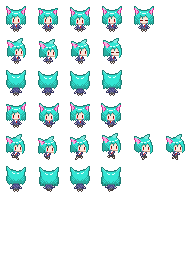
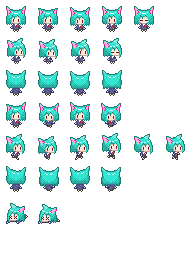
地雷を踏んだ時のイベント処理 (boost::coroutineとLuaを共存できなかったのでLuaのcoroutineを分けた)

Changed region(s): [[0.0312, 0.7812, 0.1562, 0.875], [0.1875, 0.7812, 0.3125, 0.875]]

diff --git a/src/inGame/SteppedOnMineEvent.cpp b/src/inGame/SteppedOnMineEvent.cpp
@@ -1,0 +1,56 @@
+//
+// Created by sashi0034 on 2022/08/10.
+//
+
+#include "SteppedOnMineEvent.h"
+#include "MainScene.h"
+#include "character/MineFlower.h"
+#include "effect/GeoExplosion.h"
+
+namespace inGame
+{
+
+    IFieldManager *SteppedOnMineEventArgs::GetFieldManager() const
+    {
+        return MainScene->GetFieldManager();
+    }
+
+    void SteppedOnMineEvent::StartEvent(const SteppedOnMineEventArgs &args)
+    {
+        args.GetFieldManager()->GetCoroutine()->Start([args, this](auto&& yield){ performExplosionAsync(yield, args); });
+    }
+
+    void SteppedOnMineEvent::performExplosionAsync(CoroTaskYield &yield, SteppedOnMineEventArgs args)
+    {
+        auto eventInScope = args.MainScene->GetFieldEventManager()->UseEvent();
+        eventInScope.StartFromHere();
+
+        LOG_INFO << "stepped on mine." << std::endl;
+
+        args.GetFieldManager()->GetCoroutine()->Start([this, &args](auto&& yield){explodeFlowersAsync(yield, args); });
+
+        coroUtil::WaitForTime(yield, 3.0);
+
+        args.MainScene->ToSuper()->RequestResetScene(args.ClassAtFailed->GetClassLevel());
+    }
+
+    // 順番に爆発していく演出
+    void SteppedOnMineEvent::explodeFlowersAsync(CoroTaskYield &yield, SteppedOnMineEventArgs args)
+    {
+        auto const bloomedList = args.ClassAtFailed->SortBloomedListByPos(args.SteppedPos)->GetBloomedList();
+
+        for (int i=0; i<int(bloomedList.size()); ++i)
+        {
+            auto targetFlower = bloomedList[i];
+
+            effect::GeoExplosion::Produce(
+                    args.MainScene->GetEffectManager(),
+                    targetFlower->Position.GetVecByFiledPixel() + FieldManager::MatPixelSize.CastTo<double>() / 2.0);
+
+            targetFlower->Destroy();
+
+            coroUtil::WaitForTime(yield, 0.1);
+        }
+    }
+
+} // inGame

diff --git a/src/inGame/LuaEngine.h b/src/inGame/LuaEngine.h
@@ -6,20 +6,48 @@
 #define FILL_TILES_LUAENGINE_H
 
 #include "sol.hpp"
+#include "../gameEngine/gameEngine.h"
 
 namespace inGame
 {
+    class GameRoot;
 
     class LuaEngine
     {
     public:
-        LuaEngine();
+        explicit LuaEngine(GameRoot* gameRoot);
         sol::state& GetState();
         void ReloadAllFiles();
+
     private:
+        GameRoot* m_GameRoot;
         const std::string  directoryPath = "assets/lua";
+        static const inline std::string yieldGetterPath = "assets/lua/getYield.lua";
         sol::state m_Lua{};
         bool tryInit();
+        double getDeltaTime();
+
+    public:
+        template <class... Args> void RunCoroutine(CoroTaskYield& yield, sol::function function, Args... args)
+        {
+            sol::coroutine task = m_Lua["coroutine"]["create"](function);
+            sol::function yieldGetter = m_Lua.script_file(yieldGetterPath);
+            sol::function yieldFunc = yieldGetter([&](){return getDeltaTime(); });
+
+            while (true)
+            {
+                m_Lua["coroutine"]["resume"](
+                        task,
+                        yieldFunc,
+                        args...
+                );
+
+                std::string status = m_Lua["coroutine"]["status"](task);
+                if (status == "dead") break;
+
+                yield();
+            }
+        }
     };
 
 } // gameEngine

diff --git a/src/inGame/MineFlowerManager.cpp b/src/inGame/MineFlowerManager.cpp
@@ -8,6 +8,7 @@
 #include "character/MineFlower.h"
 #include "character/CheckpointBlock.h"
 #include "PlayerMoveData.h"
+#include "SteppedOnMineEvent.h"
 
 namespace inGame{
 
@@ -84,8 +85,8 @@ namespace inGame{
 
         if (field->GetTileMap()->GetElementAt(matPos.GetVec())->IsBloomedMineFlower())
         {
-            LOG_INFO << "stepped on mine." << std::endl;
-            m_MainScene->ToSuper()->RequestResetScene(mineClass.GetClassLevel());
+            // 地雷を踏んでしまった
+            SteppedOnMineEvent().StartEvent(SteppedOnMineEventArgs{m_MainScene, GetCurrMineFlowerClass(), matPos});
             return false;
         }
 
@@ -213,11 +214,7 @@ namespace inGame{
     {
         auto const player = m_MainScene->GetPlayer();
         auto const playerMatPos = player->GetMatPos();
-        auto&& flowerList = mineClass.GetBloomedMineFlowerList();
-
-        std::stable_sort(flowerList.begin(), flowerList.end(), [&](character::MineFlower* left, character::MineFlower* right)->bool{
-            return playerMatPos.CalcManhattan(left->Position) < playerMatPos.CalcManhattan(right->Position);
-        });
+        auto&& flowerList = mineClass.SortBloomedListByPos(playerMatPos)->GetBloomedList();
 
         int listSize = int(flowerList.size());
         for (int i=0; i<listSize; ++i)

diff --git a/src/inGame/LuaEngine.cpp b/src/inGame/LuaEngine.cpp
@@ -5,12 +5,13 @@
 #include "string"
 #include "../gameEngine/gameEngine.h"
 #include "LuaEngine.h"
+#include "GameRoot.h"
 
 
 namespace inGame
 {
 
-    LuaEngine::LuaEngine()
+    LuaEngine::LuaEngine(GameRoot* gameRoot) : m_GameRoot(gameRoot)
     {
         m_Lua.open_libraries(sol::lib::base, sol::lib::package, sol::lib::coroutine, sol::lib::string, sol::lib::os, sol::lib::math,
                              sol::lib::table, sol::lib::debug, sol::lib::bit32, sol::lib::io, sol::lib::ffi, sol::lib::utf8);
@@ -24,7 +25,7 @@ namespace inGame
         bool isSuccess = true;
         namespace  fs = std::filesystem;
 
-        for (const auto& file : fs::directory_iterator(directoryPath))
+        for (const auto& file : fs::recursive_directory_iterator(directoryPath))
         {
             if (!file.is_regular_file()) continue;
 
@@ -53,6 +54,11 @@ namespace inGame
     void LuaEngine::ReloadAllFiles()
     {
         tryInit();
+    }
+
+    double LuaEngine::getDeltaTime()
+    {
+        return m_GameRoot->GetAppState()->GetTime().GetDeltaSec();
     }
 
 } // inGame

diff --git a/src/gameEngine/CoroutineManager.h b/src/gameEngine/CoroutineManager.h
@@ -9,6 +9,7 @@
 #include "ChildrenPool.h"
 #include "CoroTask.h"
 #include "boost/coroutine2/coroutine.hpp"
+#include <functional>
 
 namespace gameEngine
 {
@@ -25,6 +26,7 @@ namespace gameEngine
     class ICoroutineManager
     {
     public:
+        virtual WeakPtr<CoroutineElement> Start(std::function<void(CoroTaskYield&)> Task) = 0;
         virtual WeakPtr<CoroutineElement> Start(boost::coroutines2::coroutine<CoroTask>::pull_type *Task) = 0;
         virtual WeakPtr<CoroutineElement> Start(CoroutineElement *task) = 0;
         virtual bool Destroy(CoroutineElement *task) = 0;
@@ -33,6 +35,7 @@ namespace gameEngine
     class CoroutineManager : public ICoroutineManager
     {
     public:
+        WeakPtr<CoroutineElement> Start(std::function<void(CoroTaskYield&)> task) override;
         WeakPtr<CoroutineElement> Start(boost::coroutines2::coroutine<CoroTask>::pull_type *task) override;
         WeakPtr<CoroutineElement> Start(CoroutineElement *task) override;
         bool Destroy(CoroutineElement *task) override;

diff --git a/src/inGame/MineFlowerClass.cpp b/src/inGame/MineFlowerClass.cpp
@@ -3,6 +3,7 @@
 //
 
 #include "MineFlowerClass.h"
+#include "character/MineFlower.h"
 
 namespace inGame
 {
@@ -63,9 +64,17 @@ namespace inGame
         m_BloomedMineFlowerList.push_back(element);
     }
 
-    std::vector<character::MineFlower*> &MineFlowerClass::GetBloomedMineFlowerList()
+    std::vector<character::MineFlower*> &MineFlowerClass::GetBloomedList()
     {
         return m_BloomedMineFlowerList;
+    }
+
+    MineFlowerClass *MineFlowerClass::SortBloomedListByPos(const MatPos &centerPos)
+    {
+        std::stable_sort(m_BloomedMineFlowerList.begin(), m_BloomedMineFlowerList.end(), [&](character::MineFlower* left, character::MineFlower* right)->bool{
+            return centerPos.CalcManhattan(left->Position) < centerPos.CalcManhattan(right->Position);
+        });
+        return this;
     }
 
 } // inGame

diff --git a/src/inGame/SteppedOnMineEvent.h b/src/inGame/SteppedOnMineEvent.h
@@ -1,0 +1,32 @@
+//
+// Created by sashi0034 on 2022/08/10.
+//
+
+#ifndef FILL_TILES_STEPPEDONMINEEVENT_H
+#define FILL_TILES_STEPPEDONMINEEVENT_H
+
+#include "MineFlowerClass.h"
+
+namespace inGame
+{
+    struct SteppedOnMineEventArgs
+    {
+        IMainScene* const MainScene;
+        MineFlowerClass* const ClassAtFailed;
+        MatPos const SteppedPos;
+
+        IFieldManager* GetFieldManager() const;
+    };
+
+    class SteppedOnMineEvent
+    {
+    public:
+        void StartEvent(const SteppedOnMineEventArgs& args);
+    private:
+        void performExplosionAsync(CoroTaskYield& yield, SteppedOnMineEventArgs args);
+        void explodeFlowersAsync(CoroTaskYield &yield, SteppedOnMineEventArgs args);
+    };
+
+} // inGame
+
+#endif //FILL_TILES_STEPPEDONMINEEVENT_H

diff --git a/src/inGame/effect/GeoExplosion.cpp b/src/inGame/effect/GeoExplosion.cpp
@@ -40,10 +40,14 @@ namespace inGame::effect
 
     CoroTask GeoExplosion::produceEffectAsync(CoroTaskYield &yield, EffectManager *manager, const Vec2<double> pos)
     {
+        yield();
+
         auto const lua = manager->GetRoot()->GetLua();
-        lua->GetState()["GeoExplosion"]["ProduceEffects"](
-                [&](double time){coroUtil::WaitForTime(yield, time); },
-                [&](double x, double y){manager->GetChildren()->Birth(new GeoExplosion(manager, pos + Vec2{x, y}));}
+
+        lua->RunCoroutine(
+                yield,
+                (sol::function)lua->GetState()["GeoExplosion"]["ProduceEffects"],
+                [&](double x, double y)->void {manager->GetChildren()->Birth(new GeoExplosion(manager, pos + Vec2{x, y}));}
         );
 
     }

diff --git a/src/inGame/MineFlowerClass.h b/src/inGame/MineFlowerClass.h
@@ -37,7 +37,9 @@ namespace inGame
         [[nodiscard]] MatPos GetRespawnMatPos() const;
 
         void PushBloomedMineFlower(character::MineFlower* element);
-        std::vector<character::MineFlower*>& GetBloomedMineFlowerList();
+        std::vector<character::MineFlower*>& GetBloomedList();
+
+        MineFlowerClass* SortBloomedListByPos(const MatPos& centerPos);
     private:
         int m_MaxMineFlowerCount = 0;
         int m_MineFlowerCount = 0;

diff --git a/src/gameEngine/CoroutineManager.cpp b/src/gameEngine/CoroutineManager.cpp
@@ -16,6 +16,11 @@ namespace gameEngine{
     }
 
 
+    WeakPtr<CoroutineElement> CoroutineManager::Start(std::function<void(CoroTaskYield&)> task)
+    {
+        return Start(new CoroTaskCall(task));
+    }
+
     WeakPtr<CoroutineElement> CoroutineManager::Start(boost::coroutines2::coroutine<CoroTask>::pull_type *task)
     {
         return m_Pool.Birth(new CoroutineElement(task))->GetWeakPtr();

diff --git a/src/inGame/MatPos.h b/src/inGame/MatPos.h
@@ -15,6 +15,7 @@ namespace inGame
         explicit MatPos(const Vec2<int>& pos);
         MatPos(int x, int y);
         [[nodiscard]] Vec2<int> GetVec() const;
+        [[nodiscard]] Vec2<double> GetVecByFiledPixel() const;
         [[nodiscard]] Vec2<double> ToPixelPos() const;
 
         MatPos operator+(const MatPos& other) const;

diff --git a/src/inGame/MatPos.cpp b/src/inGame/MatPos.cpp
@@ -17,6 +17,11 @@ namespace inGame
         return m_Pos;
     }
 
+    Vec2<double> MatPos::GetVecByFiledPixel() const
+    {
+        return m_Pos.CastTo<double>() * FieldManager::PixelPerMat;
+    }
+
     MatPos MatPos::operator+(const MatPos &other) const
     {
         return MatPos(this->m_Pos + other.m_Pos);
